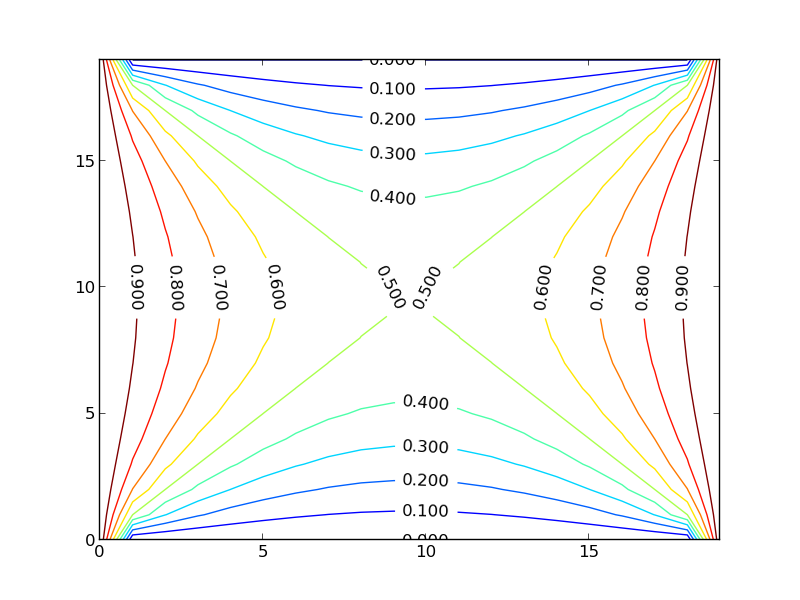
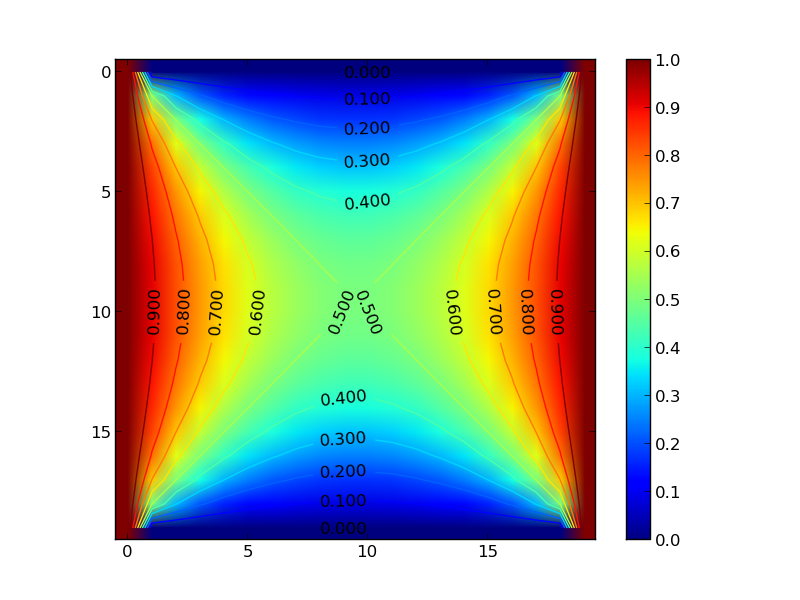
made a few final adjustments such that all of teh components of the lab are complete

diff --git a/Explicit-Finite-Diff-I/main.py b/Explicit-Finite-Diff-I/main.py
@@ -16,7 +16,8 @@ def main():
     u[-1] = b
     x = np.arange(0.0, float(len(u)), 1.0) / float(len(u) - 1)
     u = relax1D(u)
-    #animate1Dframes(x, u)
+    print "It took %d iterations to reach the desired tolerance." % (len(u) - 1)
+    animate1Dframes(x, u)
     plt.plot(x, u[-1], "-sk")
     plt.savefig("Relaxed1D.png")
     plt.close()
@@ -29,6 +30,8 @@ def main():
     u2D[:,0]  = b
     u2D[:,-1] = b
     u2D = relax2D(u2D)
+    print "It took %d iterations to reach the desired tolerance." % (len(u2D) - 1)
+    animate2Dframes(u2D)
     u2D_cf = plt.contour(u2D[-1], levels=np.arange(0, 1, 0.1))
     plt.clabel(u2D_cf, colors='k')
     plt.savefig("Relaxed2D.png")
@@ -70,6 +73,7 @@ def animate2Dframes(data):
     """
     plt.ion()
     img = plt.imshow(data[0])
+    plt.colorbar()
 
     for u in data:
         img.set_data(u)
@@ -109,7 +113,7 @@ def animate1Dframes(x, data):
     """
     plt.ion() # Set the plot to animated.    
     ax1 = plt.axes()
-    line, = plt.plot(x, data[0])
+    line, = plt.plot(x, data[0], "-ko")
 
     for u in data:
         line.set_ydata(u)
